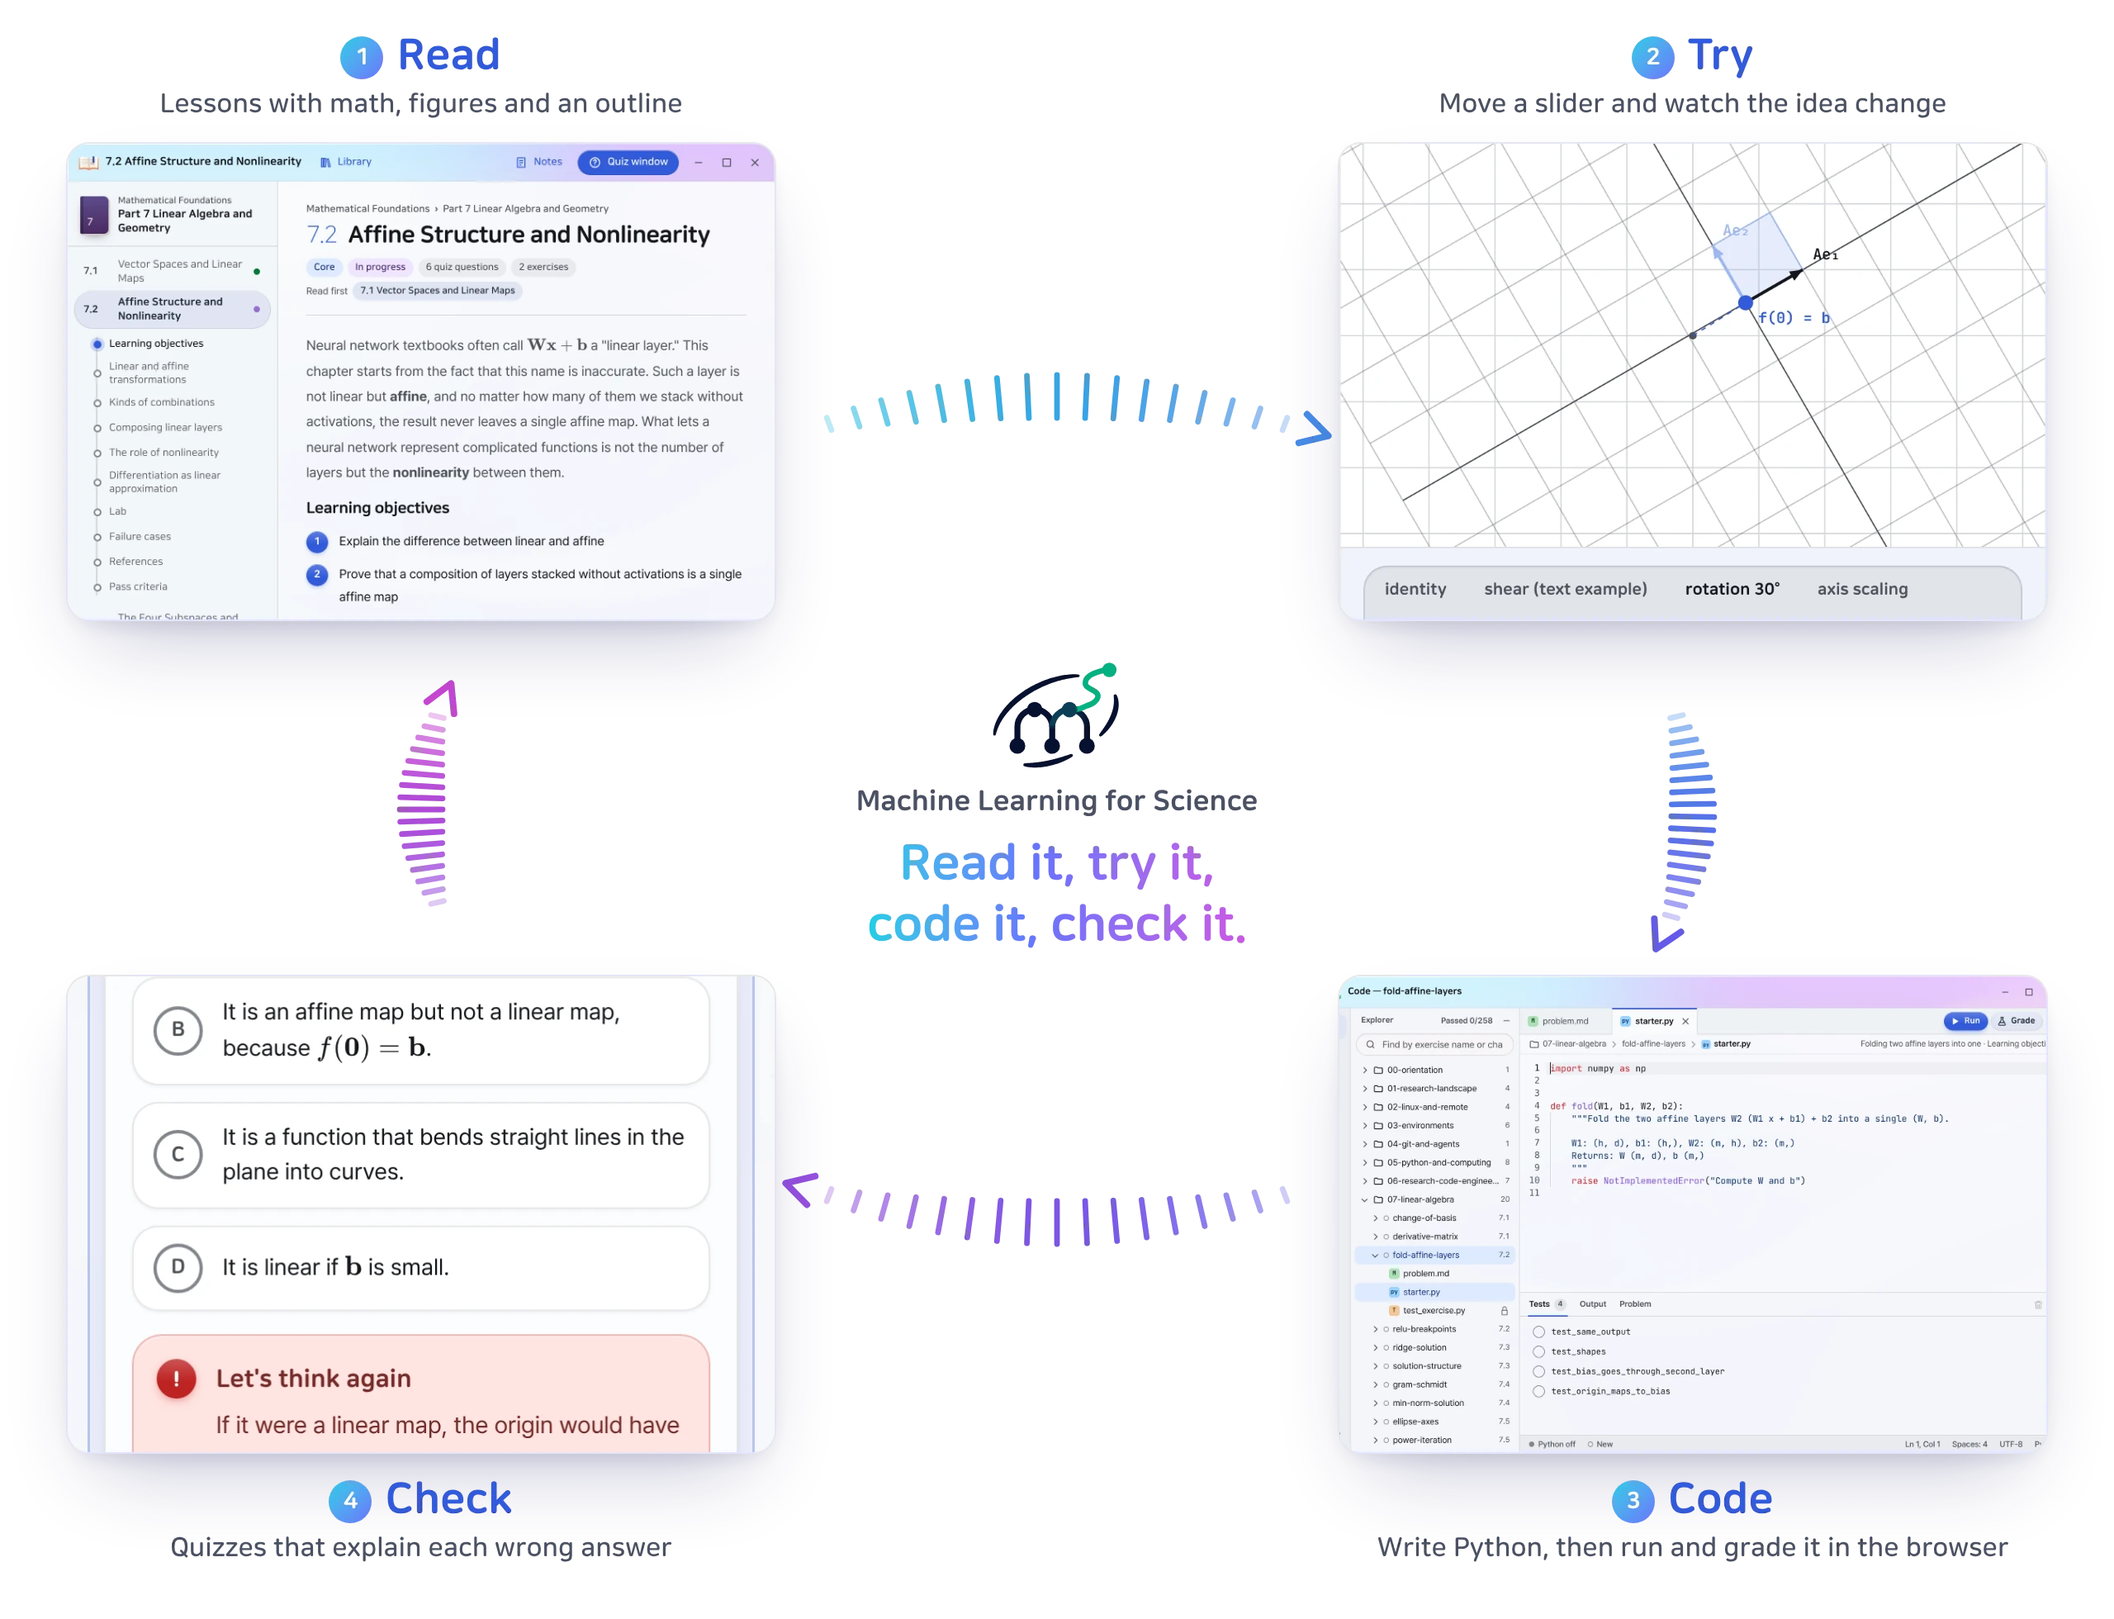
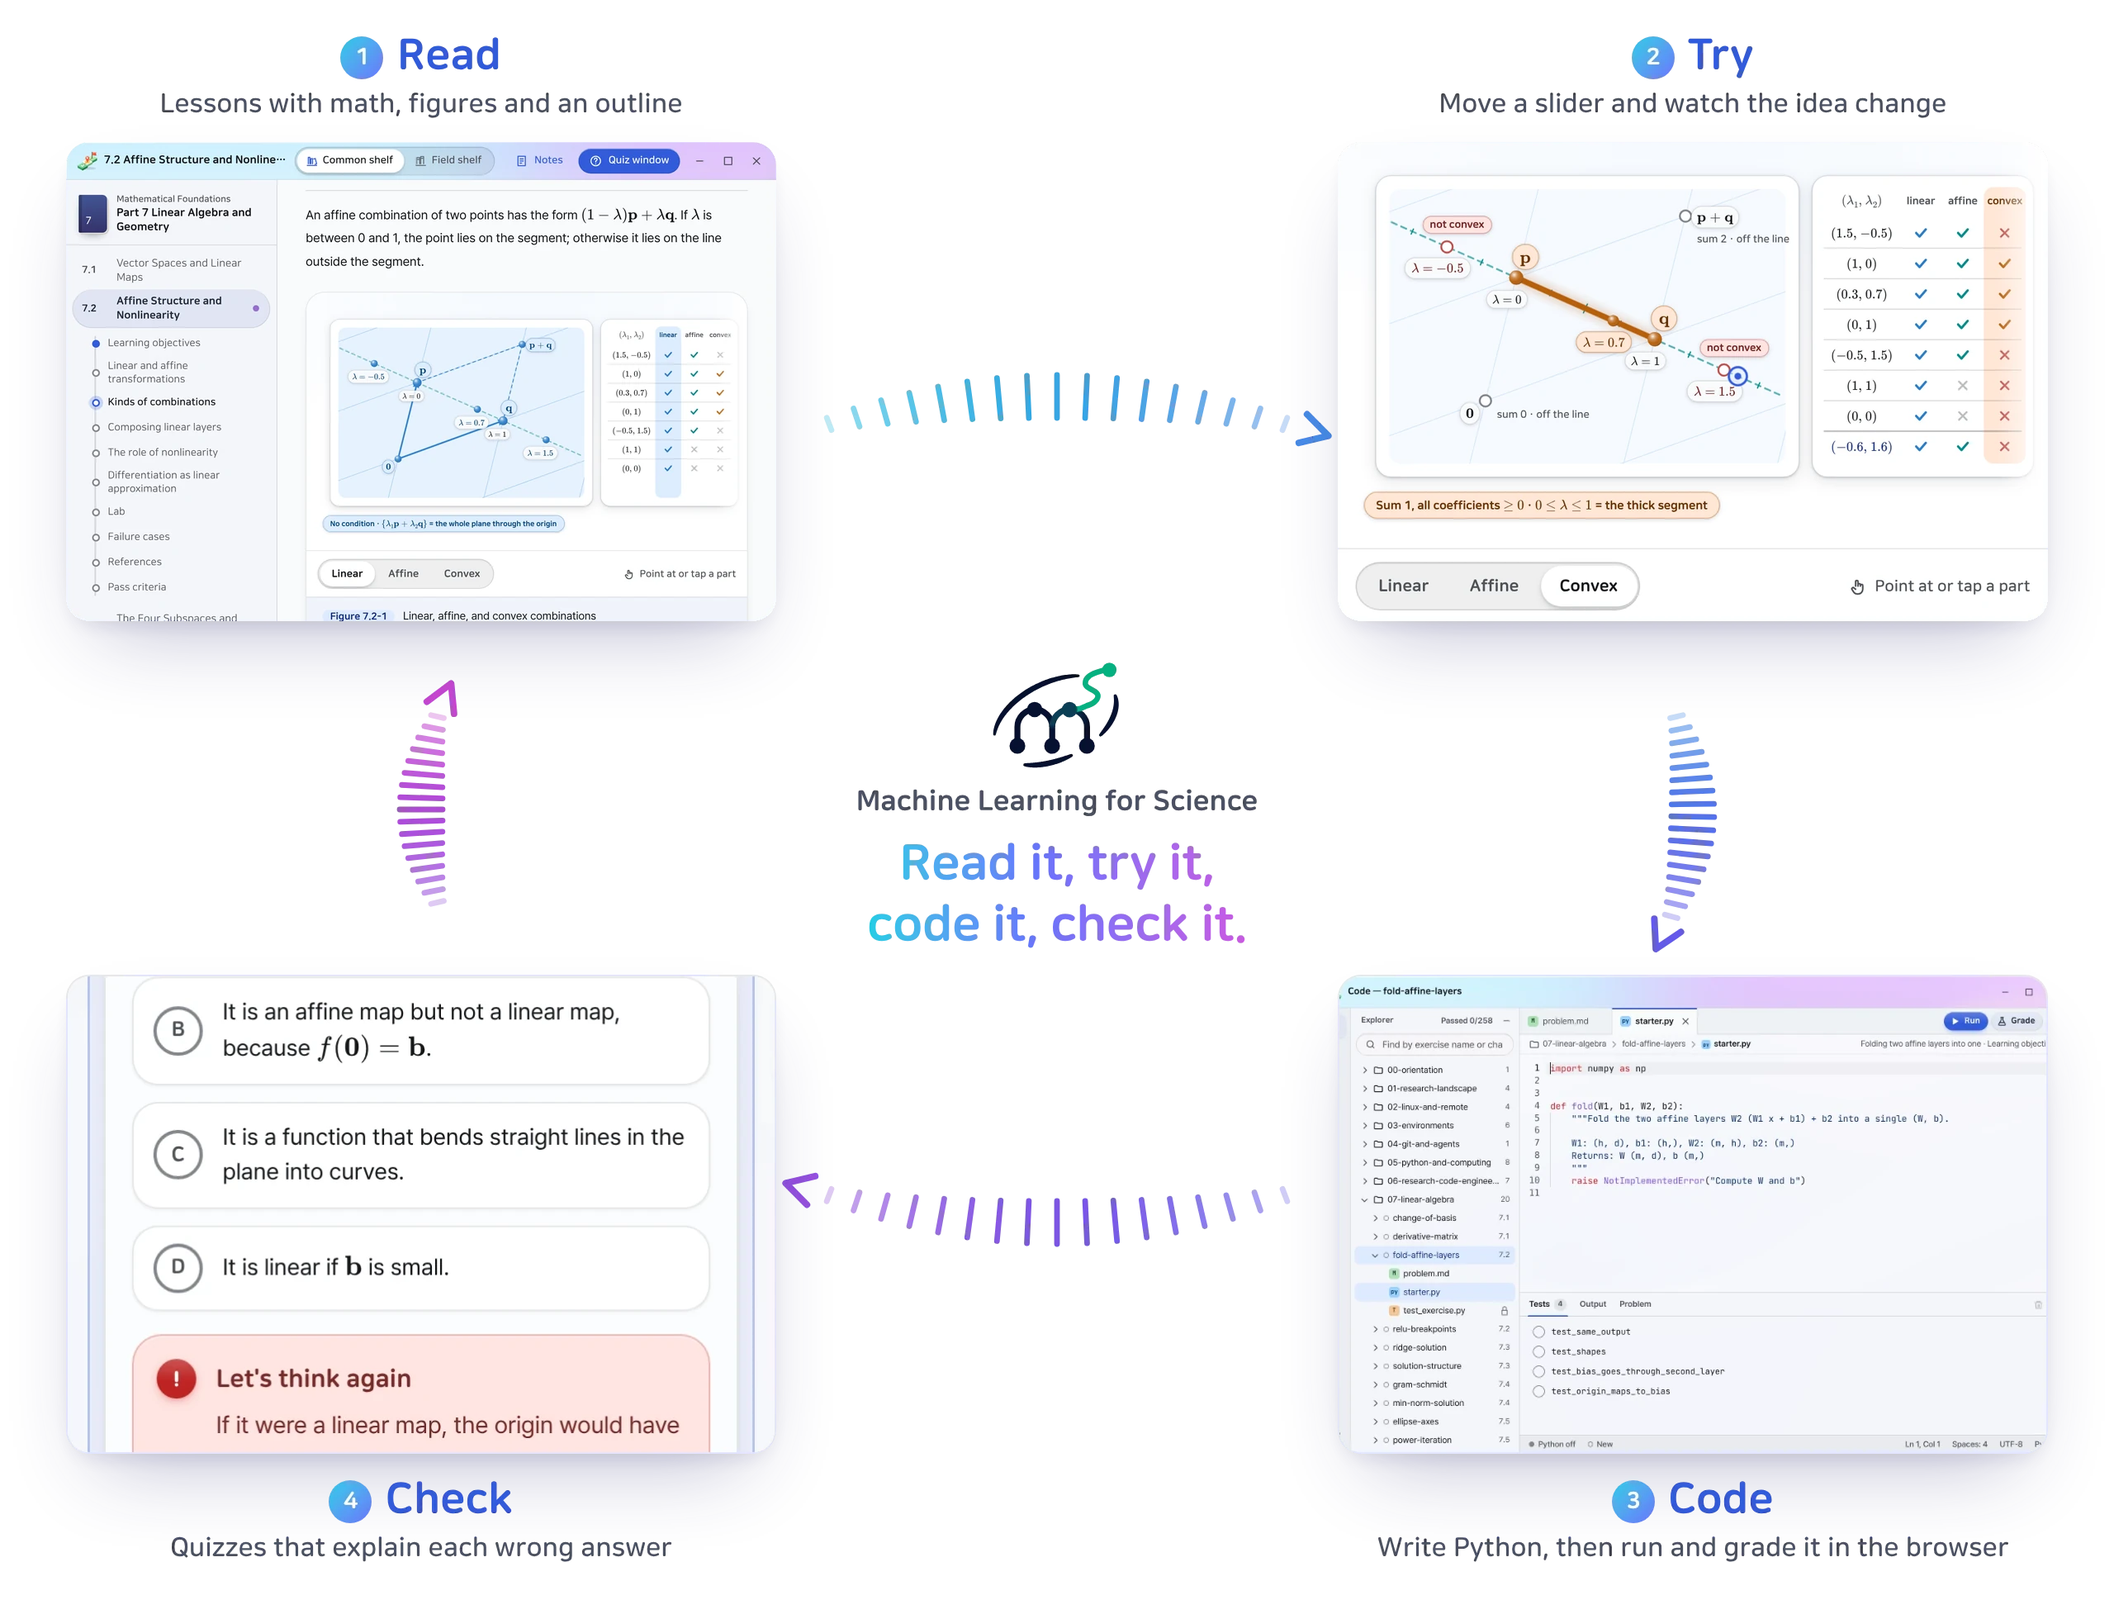
docs: show the new interactive figures in the README for 2.0 (#18)

Changed region(s): [[0.625, 0.0934, 0.9688, 0.4046], [0.0312, 0.0934, 0.3438, 0.4046]]

diff --git a/README.ko.md b/README.ko.md
@@ -12,13 +12,14 @@
 <p>
   <a href="https://ml4sci.com"><img alt="ml4sci.com에서 읽기" src="https://img.shields.io/badge/%EC%98%A8%EB%9D%BC%EC%9D%B8%EC%97%90%EC%84%9C%20%EC%9D%BD%EA%B8%B0-ml4sci.com-4f46e5?logo=bookstack&logoColor=white"></a>
   <img alt="226개 장" src="https://img.shields.io/badge/%EC%9E%A5-226%EA%B0%9C-0284c7">
+  <img alt="인터랙티브 그림 669개" src="https://img.shields.io/badge/%EC%9D%B8%ED%84%B0%EB%9E%99%ED%8B%B0%EB%B8%8C%20%EA%B7%B8%EB%A6%BC-669%EA%B0%9C-db2777">
   <img alt="퀴즈 1,406문항" src="https://img.shields.io/badge/%ED%80%B4%EC%A6%88-1%2C406%EB%AC%B8%ED%95%AD-7c3aed">
   <img alt="자동 채점 실습 268개" src="https://img.shields.io/badge/%EC%9E%90%EB%8F%99%20%EC%B1%84%EC%A0%90%20%EC%8B%A4%EC%8A%B5-268%EA%B0%9C-059669?logo=python&logoColor=white">
   <br>
   <img alt="브라우저에서 실행" src="https://img.shields.io/badge/%EC%8B%A4%ED%96%89-%EB%B8%8C%EB%9D%BC%EC%9A%B0%EC%A0%80%EC%97%90%EC%84%9C-0f766e?logo=webassembly&logoColor=white">
   <img alt="가입 필요 없음" src="https://img.shields.io/badge/%EA%B0%80%EC%9E%85-%ED%95%84%EC%9A%94%20%EC%97%86%EC%9D%8C-d97706">
   <img alt="언어: 한국어와 영어" src="https://img.shields.io/badge/%EC%96%B8%EC%96%B4-%ED%95%9C%EA%B5%AD%EC%96%B4%20%7C%20English-64748b">
-  <img alt="버전 1.0" src="https://img.shields.io/badge/%EB%B2%84%EC%A0%84-1.0-334155">
+  <img alt="버전 2.0" src="https://img.shields.io/badge/%EB%B2%84%EC%A0%84-2.0-334155">
   <a href="https://github.com/pjmbatman/ml4sci/stargazers"><img alt="GitHub 스타" src="https://img.shields.io/github/stars/pjmbatman/ml4sci?style=social"></a>
 </p>
 
@@ -36,7 +37,7 @@
 **Machine Learning for Science**([ml4sci.com](https://ml4sci.com))는 연구에 머신러닝을 써 보고 싶은 **과학자와 엔지니어**, 그리고 실제 과학 문제를 풀고 싶은 **AI 연구자**를 위한 인터랙티브 디지털 책이에요. 본문을 읽고, 그림을 직접 움직여 보고, Python 코드를 짜서 채점까지 모두 브라우저에서 해요. 설치할 것도, 만들 계정도 없어요.
 
 <p align="center">
-  <a href="https://ml4sci.com"><img src=".github/assets/ko/demo.gif" alt="짧은 데모: 퀴즈가 곁에 있는 강의, 인터랙티브 그림, 브라우저 안 코드 채점, 3D 책장" width="100%"></a>
+  <a href="https://ml4sci.com"><img src=".github/assets/ko/demo.gif" alt="짧은 데모: 그림이 든 강의와 곁의 퀴즈, 인터랙티브 그림의 점을 끌면 표가 따라 바뀌는 모습, 브라우저 안 코드 채점, 3D 책장" width="100%"></a>
 </p>
 
 > [!NOTE]
@@ -49,14 +50,14 @@
 <p align="center">
   <picture>
     <source media="(prefers-color-scheme: dark)" srcset=".github/assets/ko/loop-dark.webp">
-    <img src=".github/assets/ko/loop-light.webp" alt="공부하는 흐름: 1 읽기, 2 만져 보기, 3 코드, 4 퀴즈" width="100%">
+    <img src=".github/assets/ko/loop-light.webp" alt="공부하는 흐름: 1 인터랙티브 그림이 든 본문 읽기, 2 그림의 점을 선분 밖으로 끌면 표가 convex 결합이 아니라고 바뀌는 만져 보기, 3 브라우저에서 코드를 짜고 채점하기, 4 틀린 답마다 이유를 짚어 주는 퀴즈" width="100%">
   </picture>
 </p>
 
 | 단계 | 하는 일 | 책에서는 |
 |---|---|---|
 | **1&nbsp;·&nbsp;읽기** | 수식과 그림이 함께 있는 본문을 읽어요. 차례가 지금 읽는 곳을 따라와요. | `학습 목표 → 개념 → 실습 → 실패 사례 → 통과 기준` |
-| **2&nbsp;·&nbsp;만져&nbsp;보기** | 슬라이더와 실시간 그래프로 증명을 읽기 전에 먼저 감을 잡아요. | 본문 곳곳의 인터랙티브 그림 |
+| **2&nbsp;·&nbsp;만져&nbsp;보기** | 점을 끌거나 슬라이더를 움직이거나 겹을 켜면 그림이 바로 다시 그려져요. 어떤 그림은 결과를 보여 주기 전에 먼저 예측해 보게 해요. | 인터랙티브 그림 669개, 그중 434개는 직접 조작 |
 | **3&nbsp;·&nbsp;코드** | 내장 편집기에서 Python을 짜고 *채점*을 누르면 테스트마다 통과 여부가 나와요. | 연습문제 268개, [Pyodide](https://pyodide.org)로 실행 |
 | **4&nbsp;·&nbsp;퀴즈** | 틀린 답마다 어떤 오해에서 나왔는지 짚어 주고, 틀린 문제는 복습 목록으로 다시 돌아와요. | 퀴즈 1,406문항과 복습 대기열 |
 
@@ -69,6 +70,7 @@
 | | |
 |---|---|
 | 🧭 **장 모음이 아니라 로드맵** | 7단계 레이어에 12개 분야, 226개 장이 놓여 있어요. 모든 분야가 함께 읽는 공통 책 27부와, 한 분야를 깊이 읽는 분야 책 5권(물리·공학, 지구·기후, 화학·재료, 생명과학, 배터리)이에요. 장마다 먼저 읽을 장이 정해져 있어서 다음에 뭘 읽을지 늘 알 수 있어요. |
+| 🎛 **인터랙티브 그림 669개** | 본문 곳곳의 그림이 손에 반응해요. 434개는 직접 조작하는 그림으로, 슬라이더를 움직이고, 점을 끌고, 겹을 켜고 끄고, 데이터를 다시 뽑고, 값을 읽고, 결과를 보기 전에 먼저 예측해 봐요. 나머지는 단계를 넘기거나, 가리킨 부분과 이어진 곳을 강조하거나, 흐름을 움직이거나, 확대해서 보여 줘요. |
 | 🐍 **브라우저에서 돌아가는 Python** | 코드 셀이 그 자리에서 Pyodide로 실행돼요(NumPy, SciPy, pandas, matplotlib, scikit-learn). PyTorch와 GPU 예제는 복사 단추와 함께 읽기 전용으로 보여 주고, 장마다 내려받는 실습 파일로 내 컴퓨터에서 돌려 볼 수 있어요. |
 | ✅ **자동 채점 연습문제** | 내장 코드 편집기에 *실행*과 *채점* 단추가 있고, 테스트마다 결과를 보여 줘요. 장의 실습 파일은 `.zip`으로도 받을 수 있어요. |
 | 🧠 **이유까지 알려 주는 퀴즈** | 틀린 답마다 그 밑에 깔린 오해를 설명해 주고, 틀린 문제는 복습 목록에 모여요. |
@@ -116,7 +118,13 @@
 
 ## 📈 진행 상황
 
-**1.0 버전이 한국어와 영어로 공개돼 있어요.** 226개 장, 퀴즈 1,406문항, 자동 채점 연습문제 268개를 두 언어 모두에서 볼 수 있어요. 책은 계속 다듬고 있어요. 장마다 검토하고 고치며, 제보받은 오류는 그 자리에서 바로잡아요.
+**2.0 버전이 한국어와 영어로 공개돼 있어요.** 새로 달라진 점은 이래요.
+
+- **인터랙티브 그림 669개**: 본문에 그림을 넣었고, 그중 434개는 직접 조작해요. 슬라이더, 점 끌기, 겹, 다시 뽑기, 값 읽기, 먼저 예측하기, 경로 따라가기, 좌우 비교 같은 조작이 있어요.
+- **영어판**: 한국어 원고를 옮긴 영어판을 [ml4sci.com/en](https://ml4sci.com/en/)에서 퀴즈, 연습문제와 함께 읽을 수 있어요.
+- **장별 점검**: 사실, 수식, 코드, 퀴즈를 장마다 하나씩 점검하고 있어요. 점검을 마친 장에는 *점검 완료* 표시가 붙어요.
+
+226개 장, 퀴즈 1,406문항, 자동 채점 연습문제 268개를 두 언어 모두에서 볼 수 있고, 제보받은 오류는 그 자리에서 바로잡아요.
 
 ## ❓ 자주 묻는 질문
 

diff --git a/README.md b/README.md
@@ -12,13 +12,14 @@
 <p>
   <a href="https://ml4sci.com/en/"><img alt="Read online at ml4sci.com" src="https://img.shields.io/badge/read%20online-ml4sci.com-4f46e5?logo=bookstack&logoColor=white"></a>
   <img alt="226 chapters" src="https://img.shields.io/badge/chapters-226-0284c7">
+  <img alt="669 interactive figures" src="https://img.shields.io/badge/interactive%20figures-669-db2777">
   <img alt="1,406 quiz questions" src="https://img.shields.io/badge/quiz%20questions-1%2C406-7c3aed">
   <img alt="268 graded exercises" src="https://img.shields.io/badge/graded%20exercises-268-059669?logo=python&logoColor=white">
   <br>
   <img alt="Runs in your browser" src="https://img.shields.io/badge/runs%20in-your%20browser-0f766e?logo=webassembly&logoColor=white">
   <img alt="No sign-up" src="https://img.shields.io/badge/sign--up-not%20needed-d97706">
   <img alt="Languages: English and Korean" src="https://img.shields.io/badge/languages-English%20%7C%20%ED%95%9C%EA%B5%AD%EC%96%B4-64748b">
-  <img alt="Version 1.0" src="https://img.shields.io/badge/version-1.0-334155">
+  <img alt="Version 2.0" src="https://img.shields.io/badge/version-2.0-334155">
   <a href="https://github.com/pjmbatman/ml4sci/stargazers"><img alt="GitHub stars" src="https://img.shields.io/github/stars/pjmbatman/ml4sci?style=social"></a>
 </p>
 
@@ -36,7 +37,7 @@
 **Machine Learning for Science** ([ml4sci.com](https://ml4sci.com/en/)) is an interactive digital book for **scientists and engineers** who want to bring machine learning into their research, and for **AI researchers** who want to work on real scientific problems. You read, move interactive figures, write Python and get it graded, all in your browser. There is nothing to install and no account to create.
 
 <p align="center">
-  <a href="https://ml4sci.com/en/"><img src=".github/assets/en/demo.gif" alt="A short demo: a lesson with a quiz, an interactive figure, grading code in the browser and the 3D bookshelf" width="100%"></a>
+  <a href="https://ml4sci.com/en/"><img src=".github/assets/en/demo.gif" alt="A short demo: a lesson with a figure and a quiz beside it, dragging a point in an interactive figure while its table updates, grading code in the browser and the 3D bookshelf" width="100%"></a>
 </p>
 
 > [!NOTE]
@@ -49,14 +50,14 @@ Every chapter is built around the same loop. You read an idea, try it with your 
 <p align="center">
   <picture>
     <source media="(prefers-color-scheme: dark)" srcset=".github/assets/en/loop-dark.webp">
-    <img src=".github/assets/en/loop-light.webp" alt="The learning loop: 1 Read a lesson, 2 Try an interactive figure, 3 Code and grade an exercise in the browser, 4 Check yourself with quizzes that explain each wrong answer" width="100%">
+    <img src=".github/assets/en/loop-light.webp" alt="The learning loop: 1 Read a lesson with an interactive figure in the text, 2 Try the figure by dragging a point off the segment so its table marks the combination as not convex, 3 Code and grade an exercise in the browser, 4 Check yourself with quizzes that explain each wrong answer" width="100%">
   </picture>
 </p>
 
 | Step | What happens | In the book |
 |---|---|---|
 | **1&nbsp;·&nbsp;Read** | Lessons with math, figures and an outline that tracks your place. | `Learning objectives → Concepts → Lab → Failure cases → Pass criteria` |
-| **2&nbsp;·&nbsp;Try** | Sliders and live plots let you test an idea before you read the proof. | Interactive figures throughout the text |
+| **2&nbsp;·&nbsp;Try** | Drag a point, move a slider or switch a layer on, and the figure redraws as you go. Some figures ask you to predict the result before they show it. | 669 interactive figures, 434 of them hands-on |
 | **3&nbsp;·&nbsp;Code** | Write Python in a built-in editor, press *Grade* and see each test pass or fail. | 268 exercises, run with [Pyodide](https://pyodide.org) |
 | **4&nbsp;·&nbsp;Check** | Concept quizzes explain the misconception behind every wrong answer, and missed questions come back for review. | 1,406 questions and a review queue |
 
@@ -69,6 +70,7 @@ Every chapter is built around the same loop. You read an idea, try it with your 
 | | |
 |---|---|
 | 🧭 **A roadmap, not a pile of chapters** | 226 chapters across 12 tracks in 7 layers: a common book of 27 parts that every field reads, plus 5 field books (physics, earth and climate, chemistry, life sciences, batteries). Each chapter declares what it builds on, so you always know what to read next. |
+| 🎛 **669 interactive figures** | Figures throughout the text respond to you: 434 are hands-on, with sliders, draggable points, layers to switch on and off, data to resample, values to read off and questions that ask you to predict before you see. The rest step through stages, highlight connected parts as you point at them, animate a flow or zoom in. |
 | 🐍 **Python in the browser** | Code cells run in place with Pyodide (NumPy, SciPy, pandas, matplotlib, scikit-learn). PyTorch and GPU examples are shown read-only with a copy button; run them on your own machine with each chapter's downloadable lab files. |
 | ✅ **Auto-graded exercises** | A built-in code editor with *Run* and *Grade* buttons and per-test results. Each chapter's lab files also download as a `.zip` to run locally. |
 | 🧠 **Quizzes with feedback** | Every wrong answer explains the misconception behind it, and missed questions go to a review queue. |
@@ -116,7 +118,13 @@ Twelve tracks are arranged in seven layers. A track builds only on tracks in the
 
 ## 📈 Status
 
-**Version 1.0 is live** in Korean and English. All 226 chapters, 1,406 quiz questions and 268 auto-graded exercises are online in both languages. The book keeps improving: chapters are reviewed and revised continuously, and reported errors are fixed in place.
+**Version 2.0 is live** in Korean and English. What's new:
+
+- **669 interactive figures** in the text, 434 of them hands-on: sliders, draggable points, layers, resampling, value readouts, predict-first questions, path tracing, side-by-side comparisons and more.
+- **The English edition** at [ml4sci.com/en](https://ml4sci.com/en/), translated from the Korean manuscript, with its quizzes and exercises.
+- **Chapter-by-chapter checks**: chapters are being checked one at a time for facts, math, code and quizzes. A chapter that has been checked shows a *Checked* badge.
+
+All 226 chapters, 1,406 quiz questions and 268 auto-graded exercises are online in both languages, and reported errors are fixed in place.
 
 ## ❓ FAQ
 
